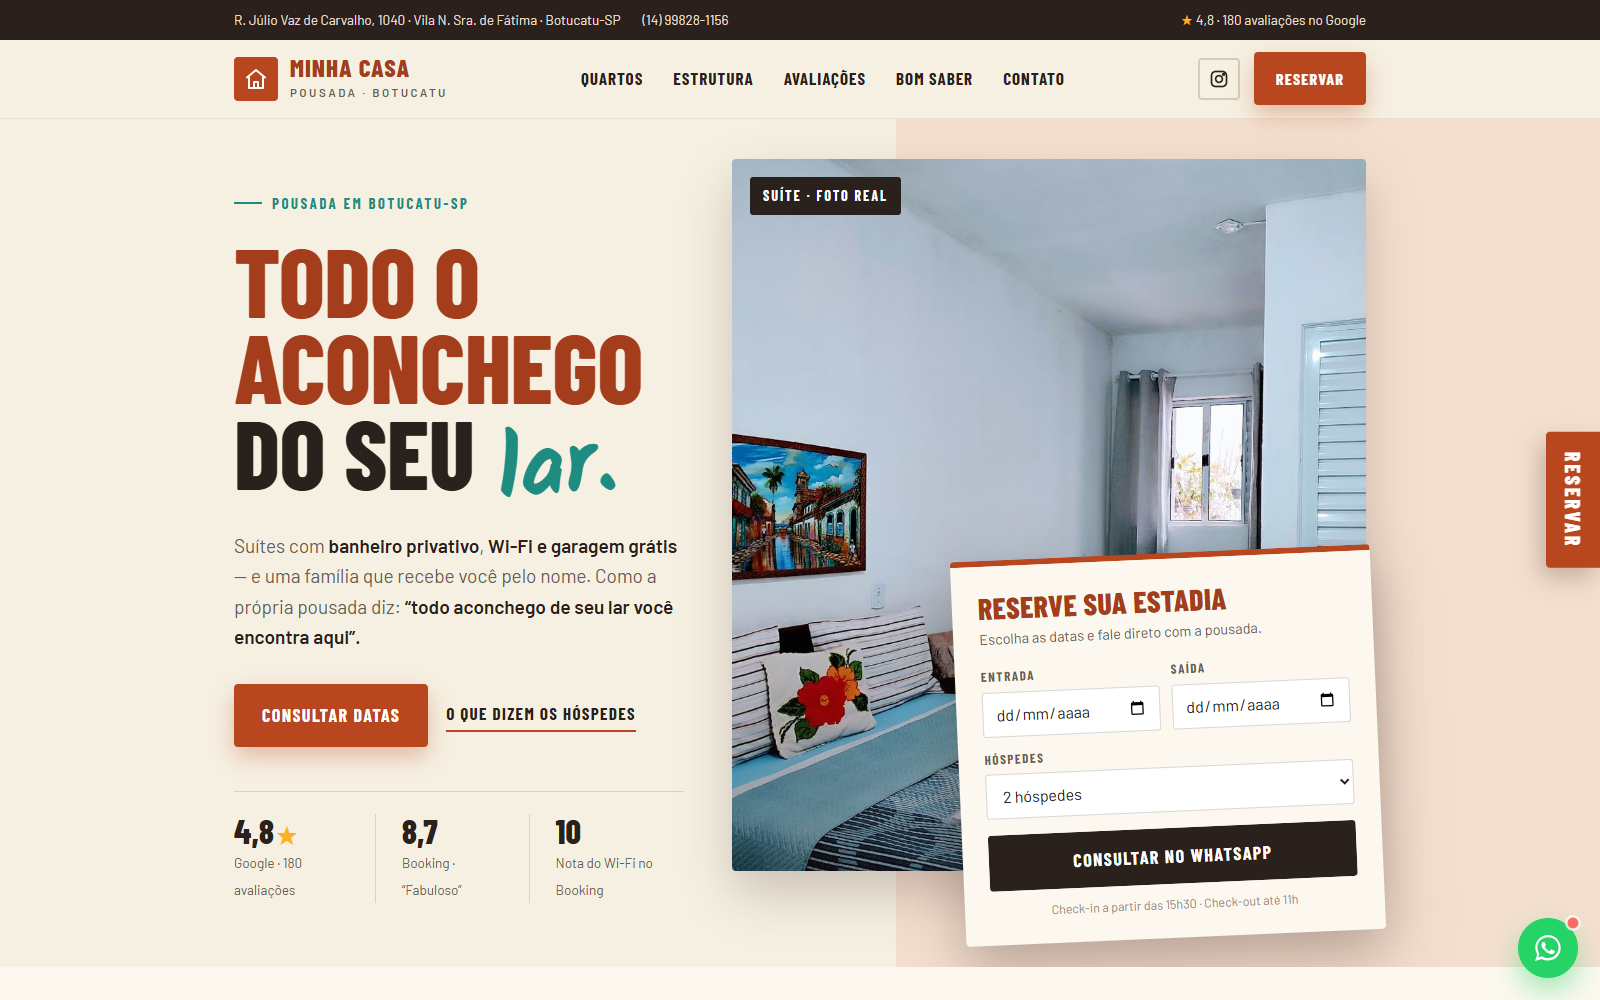
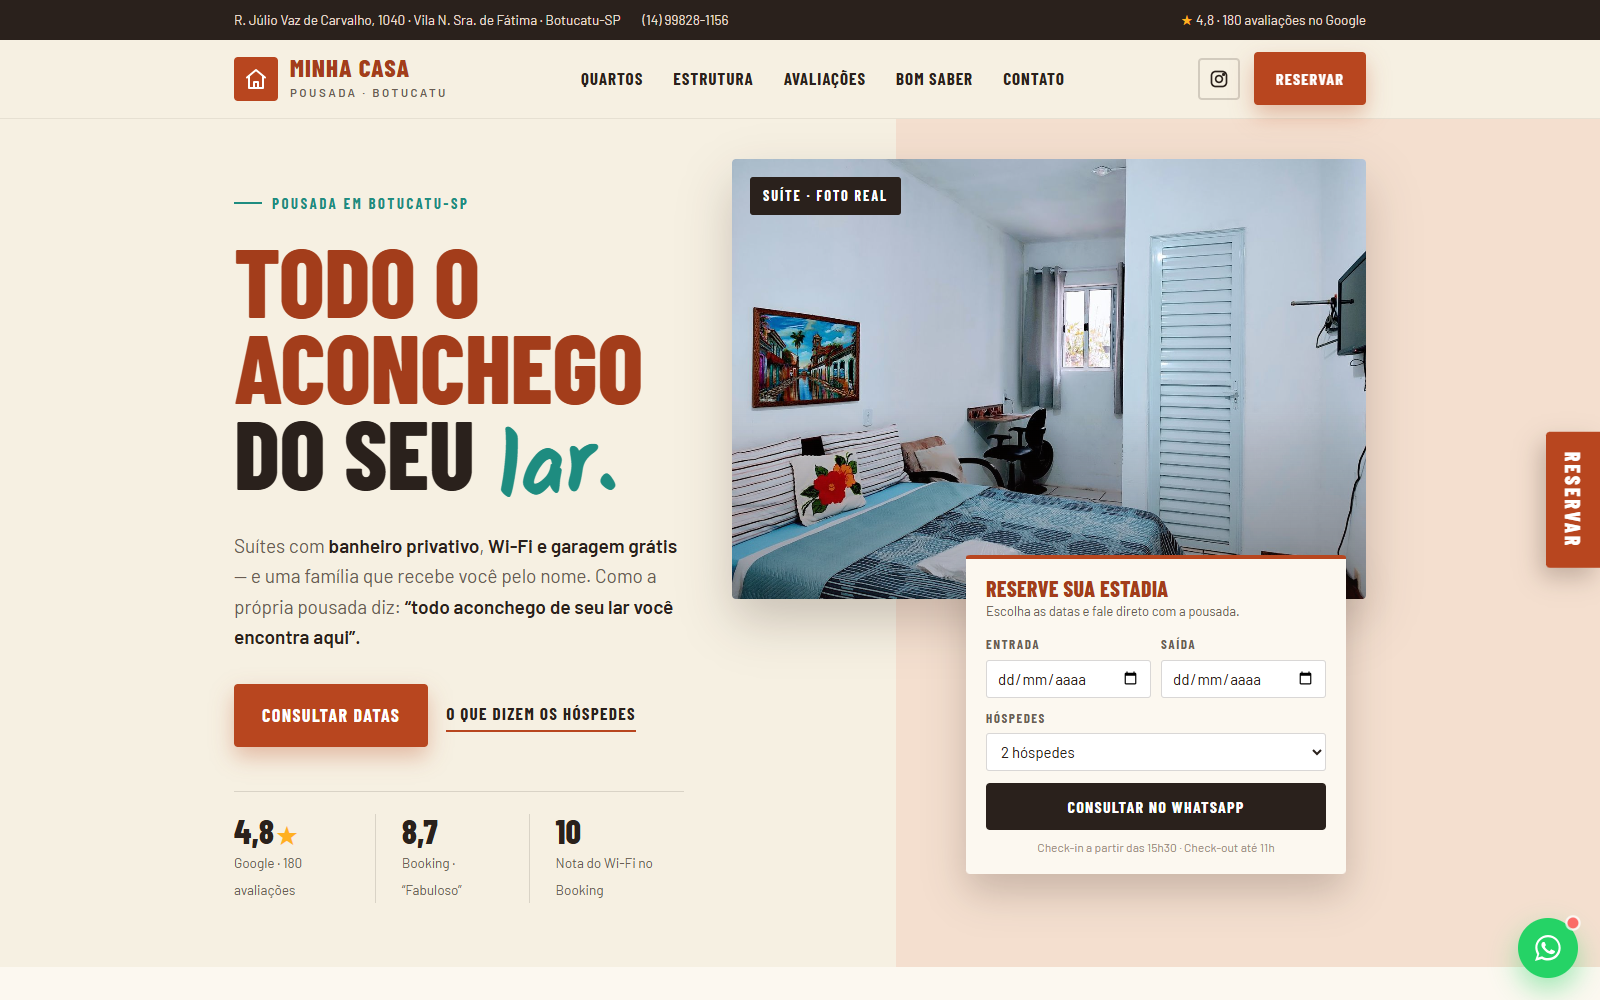
site: Pousada Minha Casa - card de reserva menor e sem rotação

Changed region(s): [[0.4375, 0.155, 0.875, 0.992], [0.8438, 0.155, 0.875, 0.186], [0.5312, 0.155, 0.5625, 0.186]]

diff --git a/pousada-minha-casa-botucatu/index.html b/pousada-minha-casa-botucatu/index.html
@@ -162,8 +162,8 @@ html.site-expired body>*:not(#expiry-overlay){display:none!important;}
   .hero-stats b em{font-style:normal;color:var(--star);font-size:24px;margin-left:3px;}
   .hero-stats span{font-size:13.5px;color:var(--gray-600);}
 
-  .hero-right{position:relative;padding:40px 0 96px;}
-  .hero-photo{position:relative;height:100%;min-height:520px;border-radius:4px;overflow:hidden;box-shadow:var(--shadow-lg);}
+  .hero-right{position:relative;padding:40px 0 48px;display:flex;flex-direction:column;}
+  .hero-photo{position:relative;height:440px;border-radius:4px;overflow:hidden;box-shadow:var(--shadow-lg);}
   .hero-photo img{width:100%;height:100%;object-fit:cover;object-position:18% 92%;}
   .hero-photo::after{content:"";position:absolute;inset:0;background:linear-gradient(180deg,rgba(42,23,16,0) 55%,rgba(42,23,16,.28));pointer-events:none;}
   .photo-tag{position:absolute;top:18px;left:18px;z-index:2;background:var(--ink);color:#fff;font-family:'Barlow Condensed',sans-serif;font-weight:700;font-size:14px;letter-spacing:.14em;text-transform:uppercase;padding:8px 13px;border-radius:3px;}
@@ -171,16 +171,16 @@ html.site-expired body>*:not(#expiry-overlay){display:none!important;}
   .hero-grid > *{position:relative;z-index:1;}
 
   /* Card de reserva inclinado (dispositivo da referência Freehand) */
-  .booking-card{position:absolute;right:-12px;bottom:28px;z-index:4;width:min(420px,88%);background:var(--paper);border-radius:4px;padding:26px 26px 24px;box-shadow:0 26px 60px rgba(42,23,16,.30);transform:rotate(-2.5deg);border-top:6px solid var(--brand-500);}
-  .booking-card h3{font-weight:800;font-size:30px;color:var(--brand-600);}
-  .booking-card p.sub{font-size:14.5px;color:var(--gray-600);margin:4px 0 16px;}
-  .bk-fields{display:grid;grid-template-columns:1fr 1fr;gap:12px;}
+  .booking-card{position:relative;z-index:4;align-self:flex-end;width:min(380px,92%);margin:-44px 20px 0 0;background:var(--paper);border-radius:4px;padding:18px 20px 16px;box-shadow:0 18px 40px rgba(42,23,16,.22);border-top:4px solid var(--brand-500);}
+  .booking-card h3{font-weight:800;font-size:22px;color:var(--brand-600);}
+  .booking-card p.sub{font-size:13px;color:var(--gray-600);margin:2px 0 12px;}
+  .bk-fields{display:grid;grid-template-columns:1fr 1fr;gap:10px;}
   .bk-fields label{display:flex;flex-direction:column;gap:5px;font-family:'Barlow Condensed',sans-serif;font-weight:700;font-size:13px;letter-spacing:.12em;text-transform:uppercase;color:var(--gray-600);}
   .bk-fields .full{grid-column:1/-1;}
-  .bk-fields input,.bk-fields select{font-family:'Barlow',sans-serif;font-size:16px;color:var(--ink);background:#fff;border:1.5px solid rgba(42,33,28,.18);border-radius:3px;padding:11px 12px;width:100%;transition:border-color .2s;}
+  .bk-fields input,.bk-fields select{font-family:'Barlow',sans-serif;font-size:15px;color:var(--ink);background:#fff;border:1.5px solid rgba(42,33,28,.18);border-radius:3px;padding:8px 10px;width:100%;transition:border-color .2s;}
   .bk-fields input:focus,.bk-fields select:focus{outline:none;border-color:var(--brand-500);}
-  .booking-card .btn{width:100%;margin-top:16px;}
-  .bk-note{font-size:12.5px;color:var(--gray-400);margin-top:10px;text-align:center;}
+  .booking-card .btn{width:100%;margin-top:12px;padding:12px 18px;font-size:16px;}
+  .bk-note{font-size:12px;color:var(--gray-400);margin-top:8px;text-align:center;}
   .bk-error{display:none;font-size:13px;color:var(--brand-700);margin-top:8px;}
 
   @media(max-width:1024px){
@@ -189,7 +189,7 @@ html.site-expired body>*:not(#expiry-overlay){display:none!important;}
     .hero-bleed{display:none;}
     .hero-right{padding:28px 0 0;}
     .hero-photo{min-height:0;height:auto;aspect-ratio:4/3;}
-    .booking-card{position:relative;right:auto;bottom:auto;width:auto;margin:-48px 14px 0;transform:rotate(-1.2deg);}
+    .booking-card{align-self:stretch;width:auto;margin:-36px 14px 0;}
     .hero{padding-bottom:56px;}
   }
   @media(max-width:520px){
@@ -197,7 +197,7 @@ html.site-expired body>*:not(#expiry-overlay){display:none!important;}
     .hero-stats div{padding-right:16px;margin-right:16px;}
     .hero-stats b{font-size:28px;}
     .hero-lead{font-size:17.5px;}
-    .booking-card{margin:-36px 6px 0;padding:22px 18px 20px;}
+    .booking-card{margin:-28px 8px 0;padding:16px 16px 14px;}
     .bk-fields{grid-template-columns:1fr 1fr;gap:10px;}
   }
 
